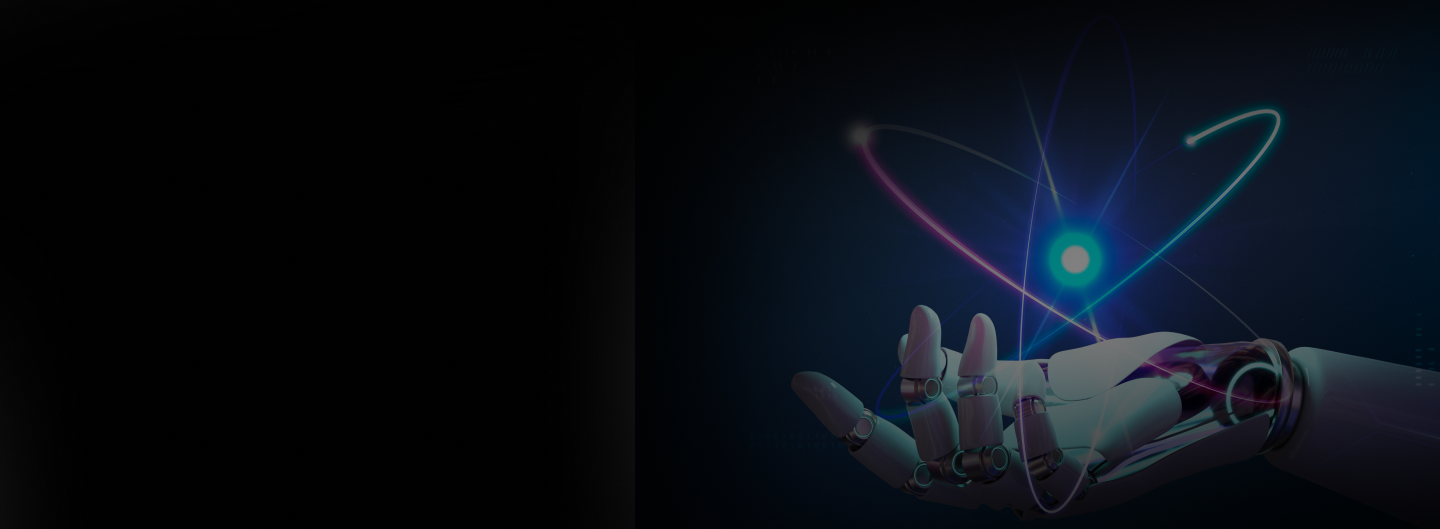
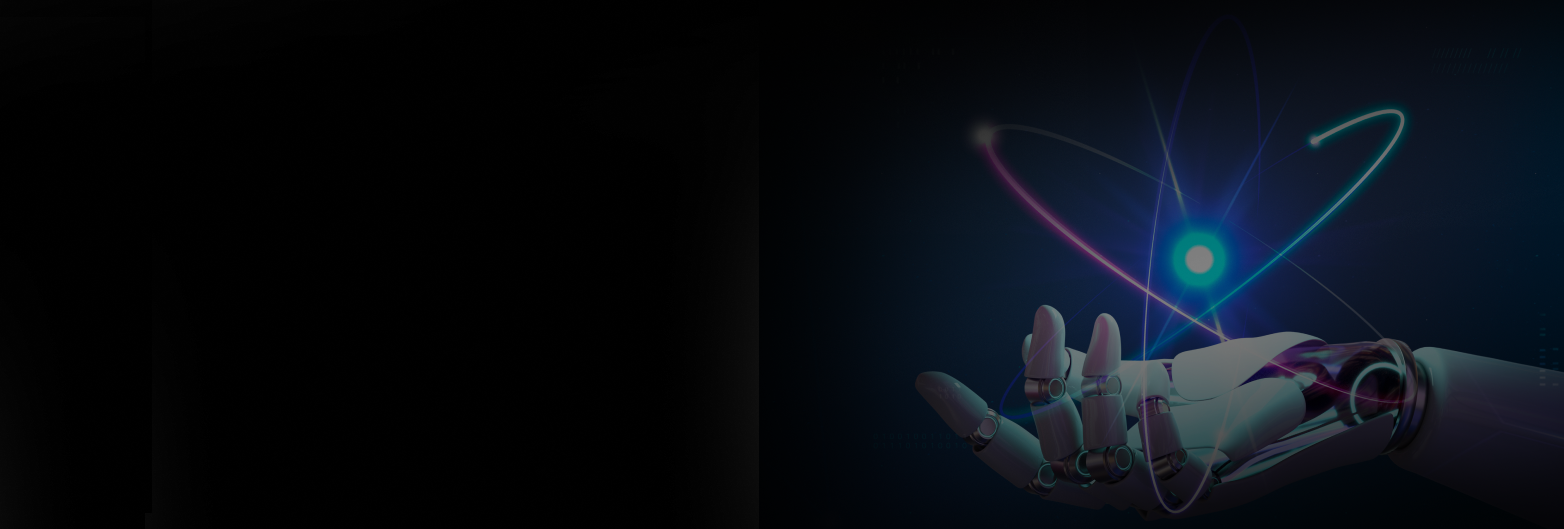
Home Page almost done

Changed region(s): [[0.5312, 0.1815, 0.9375, 0.9679]]

diff --git a/src/app/home/home.component.scss b/src/app/home/home.component.scss
@@ -90,3 +90,111 @@
         top: -468px;
     }
 }
+
+///NEW DESIGN
+
+.section-2 {
+    background-image: url("../../assets/images/bg-2.png");
+    background-size: cover;
+    background-repeat: no-repeat;
+    display: flex;
+    flex-direction: column;
+    justify-content: center;
+    float: right;
+    width: 100%;
+    height: 819px;
+    padding: 10px;
+    // height: 100%;
+    position: relative;
+    .section-2-mask-1 {
+        width: 110%;
+        height: 30%;
+        background: #000000;
+        filter: blur(69px);
+        position: absolute;
+        top: -91px;
+        left: -40px;
+    }
+    .section-2-mask-2 {
+        width: 63%;
+        height: 41%;
+        background: #000000;
+        filter: blur(69px);
+        transform: rotate(349deg);
+        position: absolute;
+        left: -44px;
+        top: 75px;
+    }
+}
+.section-3 {
+    display: flex;
+    flex-direction: column;
+    justify-content: center;
+    float: right;
+    width: 100%;
+    height: 819px;
+    padding: 10px;
+    background-image: url("../../assets/images/bg-3.png");
+    background-size: cover;
+    background-repeat: no-repeat;
+    position: relative;
+    .section-3-mask-1 {
+        width: 110%;
+        height: 30%;
+        background: #000000;
+        filter: blur(69px);
+        position: absolute;
+        top: -124px;
+        left: -85px;
+    }
+    .section-2-mask-2 {
+        width: 63%;
+        height: 41%;
+        background: #000000;
+        filter: blur(69px);
+        transform: rotate(349deg);
+        position: absolute;
+        left: -44px;
+        top: 75px;
+    }
+}
+
+.section-4 {
+    display: flex;
+    flex-direction: column;
+    justify-content: center;
+    float: right;
+    width: 100%;
+    height: 529px;
+    // height: 100%;
+    padding: 10px;
+    background-image: url("../../assets/images/bg-4.png");
+    background-size: cover;
+    background-repeat: no-repeat;
+}
+
+@media (max-width: 480px) {
+    .section-2 {
+        height: auto;
+    }
+    .section-3 {
+        height: auto;
+    }
+    .section-4 {
+        height: auto;
+    }
+
+    .heading-text {
+        font-size: 22px;
+        line-height: 30px;
+    }
+    .sub-heading-text {
+        font-size: 18px;
+        line-height: 22px;
+    }
+
+    .paragraph-text {
+        font-size: 12px;
+        line-height: 150%;
+    }
+}

diff --git a/src/app/home/home.component.html b/src/app/home/home.component.html
@@ -19,9 +19,10 @@
         </div>
     </div>
 </section>
-<section class="home-section-2">
-    <div class="home-section-2-mask-1"></div>
-    <div class="container container-top">
+<div class="section-2">
+    <div class="section-2-mask-1"></div>
+    <div class="section-2-mask-2"></div>
+    <div class="container">
         <div class="row">
             <div class="col-sm-8">
                 <h2 class="heading-text">Stay Protected From the Financial and Reputational Disaster of a Data
@@ -57,10 +58,9 @@
             </div>
         </div>
     </div>
-</section>
-<div class="mb-10"> </div>
-<section class="home-section-3">
-    <div class="home-section-3-mask-1"></div>
+</div>
+<div class="section-3">
+    <div class="section-3-mask-1"></div>
     <div class="container">
         <div class="row">
             <div class="col-sm-5"></div>
@@ -106,12 +106,27 @@
             </div>
         </div>
     </div>
-</section>
+</div>
 
-<!-- 
-<section class="home-section-4 test">
-    <div class="home-section-4-mask-1"></div>
+<div class="section-4">
     <div class="container">
+        <div class="row">
+            <div class="col-sm-8">
+                <h2 class="heading-text">
+                    Innovating the Future of Security Today
+                </h2>
+            </div>
+            <div class="col-sm-7">
+                <p class="paragraph-text">
+                    Cybercriminals are constantly exploring new ways to intercept data and systems. And as organizations
+                    adopt new platforms and systems they come with new vulnerabilities and risks to data and network
+                    breaches. Your data security needs to have one foot in the present, protecting your existing systems
+                    from threats, and the other foot wading through the murky future. As one of the top cybersecurity
+                    companies, we’re establishing the future of cybersecurity alongside the people creating the systems
+                    to be kept secure.
+                </p>
+            </div>
+        </div>
 
     </div>
-</section> -->
+</div>
